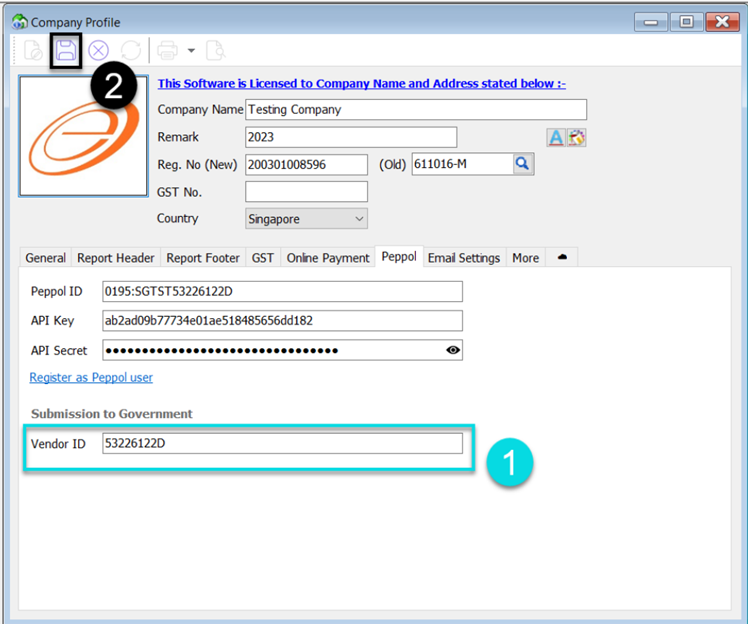
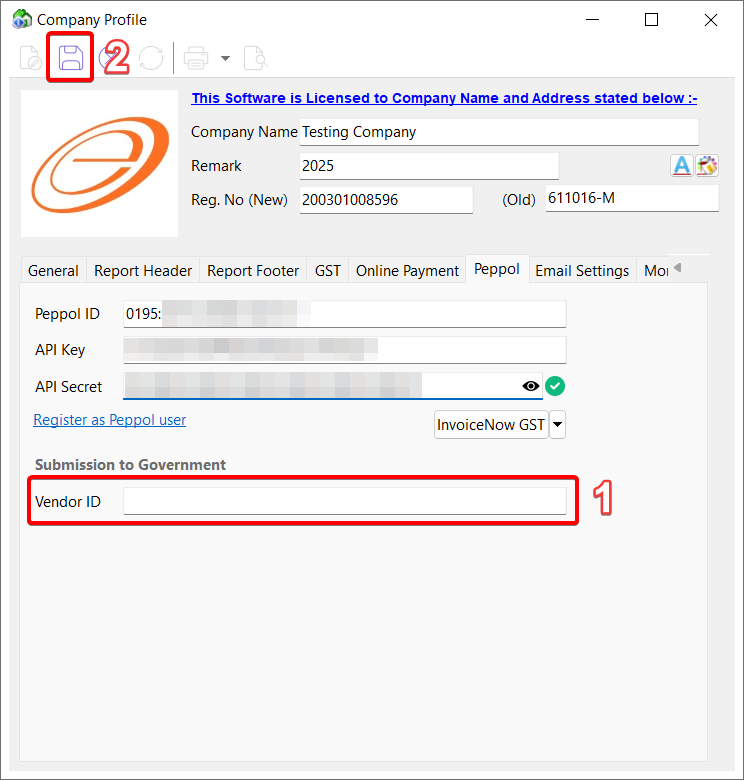
feat: Update SG InvoiceNow GST guide

Changed region(s): [[0.0, 0.0, 1.0, 1.0], [0.8965, 0.1827, 0.9583, 0.2436], [0.8656, 0.3349, 0.9274, 0.3654]]

diff --git a/docs/singapore/e-invoice.md b/docs/singapore/e-invoice.md
@@ -1,5 +1,6 @@
 ---
-title: InvoiceNow
+sidebar_position: 2
+title: InvoiceNow GST
 description: A guide for E-Invoicing for Singapore SQL User
 slug: /singapore/invoicenow
 tags: ["SQL Account", "Singapore", "InvoiceNow"]
@@ -27,8 +28,8 @@ tags: ["SQL Account", "Singapore", "InvoiceNow"]
 
     ![3](../../static/img/singapore-gst/sg-e-invoice/3.png)
 
-:::info Note
-**Please note that obtaining the API Key and API Secret will incur additional charges**
+:::info[NOTE]
+Please note that obtaining the API Key and API Secret will incur additional charges
 :::
 
 ## 2. Setting Peppol In Company Profile
@@ -44,6 +45,14 @@ tags: ["SQL Account", "Singapore", "InvoiceNow"]
 3. **Save**
 
     ![4](../../static/img/singapore-gst/sg-e-invoice/4.png)
+
+:::info[NOTE]
+The icon next to API secret indicates the status for the API key and secret as follows:
+
+- ✅ - Valid API key and secret
+- ❌ - Invalid API key and secret
+
+:::
 
 ### 2.2 B2G (Business To Government)
 
@@ -65,15 +74,15 @@ tags: ["SQL Account", "Singapore", "InvoiceNow"]
 
 1. Click on **Edit**
 
-2. Select **Note Tab**
+2. Fill in customer **UEN number in Reg. No (New)**
 
-3. Click on the **‘magnifier’ button** to search customer peppol ID
+3. Select **Note Tab**
 
-4. Select the Customer **Company Name to get Peppol ID**
+4. Click on the **'magnifier' button** to search customer peppol ID
+
+5. Select the Customer **Company Name to get Peppol ID**
 
     *(When you input your Peppol details, the system will automatically update your UEN Number. Please double check to ensure its accuracy)*
-
-5. Fill in customer **UEN number in ‘Reg. No (New)**
 
 6. Click **Save**
 
@@ -81,7 +90,7 @@ tags: ["SQL Account", "Singapore", "InvoiceNow"]
 
 ### 3.2 Peppol B2G (Business To Government)
 
-1. **Peppol ID must be : 0195:SGUENT08GA0028A**
+1. Peppol ID must be: **0195:SGUENT08GA0028A**
 
 2. Must fill in your customer **Business Unit**
 
@@ -93,7 +102,7 @@ tags: ["SQL Account", "Singapore", "InvoiceNow"]
 
     ![8](../../static/img/singapore-gst/sg-e-invoice/8.png)
 
-    :::info For Supplier
+    :::info[For Supplier]
     Go to Supplier > Maintain Supplier > Edit > Note Tab
     :::
 
@@ -115,7 +124,7 @@ B2G follows the same steps as B2C, but B2G's Peppol ID must be **0195:SGUENT08GA
 
 ## 5. Item Code Mapping
 
-:::info
+:::info[NOTE]
 Item codes for items in the Peppol document will be automatically selected if there is a matching description.
 :::
 
@@ -138,12 +147,9 @@ Item codes for items in the Peppol document will be automatically selected if th
     ![12](../../static/img/singapore-gst/sg-e-invoice/12.png)
 
 After done settings, when you import a document from Peppol, the items will be automatically mapped item code and displayed as shown in the picture below, as an example:
-
-    **1. Supplier Code and Supplier Name matched**
-
-    **2. Item Description matched**
-
-    **3. Item Code set automatically**
+    1. Supplier Code and Supplier Name matched
+    2. Item Description matched
+    3. Item Code set automatically
 
 ![13](../../static/img/singapore-gst/sg-e-invoice/13.png)
 
